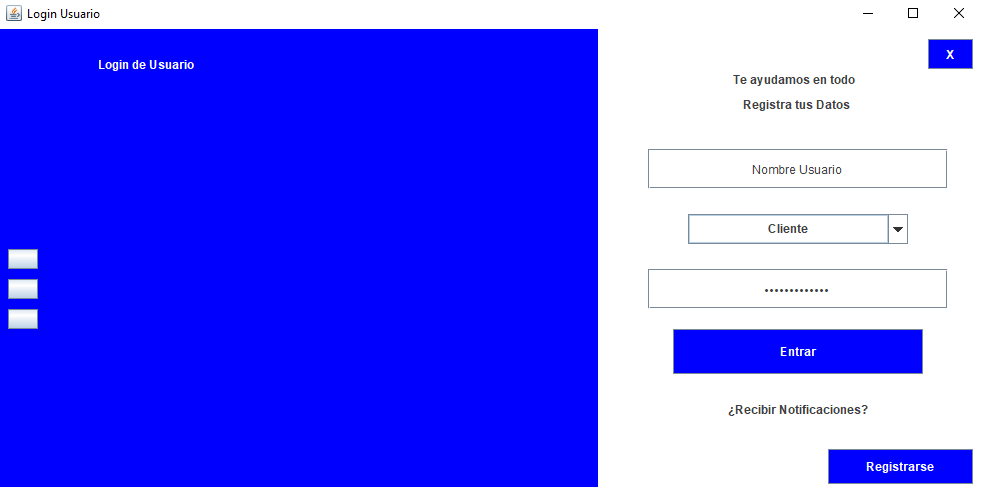
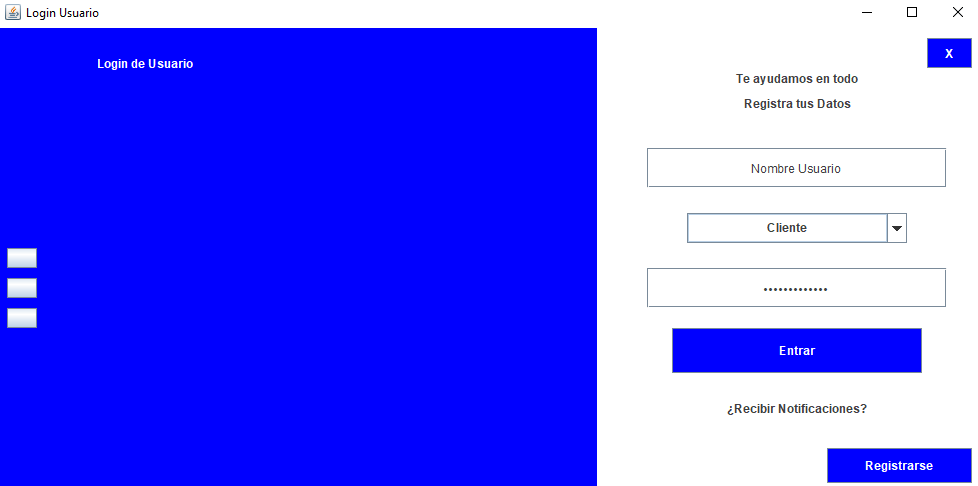
Correcciones ReadMe

diff --git a/Clase2/src/app/login/LoginTemplate.java b/Clase2/src/app/login/LoginTemplate.java
@@ -48,6 +48,7 @@ public class LoginTemplate extends JFrame {
         lEslogan = new JLabel("Te ayudamos en todo");
         lEslogan.setSize(130, 20);
         lEslogan.setLocation((pDerecha.getWidth() - lEslogan.getWidth()) / 2, 40);
+        lEslogan.setHorizontalAlignment(SwingConstants.CENTER);
         lEslogan.setForeground(Color.DARK_GRAY);
         pDerecha.add(lEslogan);
 
@@ -55,12 +56,14 @@ public class LoginTemplate extends JFrame {
         lTituloLogin.setSize(110, 30);
         lTituloLogin.setLocation((pDerecha.getWidth() - lTituloLogin.getWidth()) / 2, 60);
         lTituloLogin.setForeground(Color.DARK_GRAY);
+        lTituloLogin.setHorizontalAlignment(SwingConstants.CENTER);
         pDerecha.add(lTituloLogin);
 
         lNotificaciones = new JLabel("¿Recibir Notificaciones?");
         lNotificaciones.setSize(140, 20);
         lNotificaciones.setLocation((pDerecha.getWidth() - lNotificaciones.getWidth()) / 2, 370);
         lNotificaciones.setForeground(Color.DARK_GRAY);
+        lNotificaciones.setHorizontalAlignment(SwingConstants.CENTER);
         pDerecha.add(lNotificaciones);
 
         tNombreUsuario = new JTextField("Nombre Usuario");

diff --git a/README.md b/README.md
@@ -10,12 +10,12 @@ Curso propuesto por el grupo de trabajo Semana de Ingenio y Diseño (**SID**) de
 
 ## Objetivos
 
-- Identificar las 4 etapas para configurar objetos gráficos básicos y así ser mostrados en pantalla en una vista.
+- Identificar las 4 etapas para crear objetos gráficos básicos y así ser mostrados en pantalla en una vista.
 - Aprender los métodos principales para configurar los objetos gráficos y mostrarlos por pantalla.
 - Explorar el enfoque de posicionamiento por medio de pixeles sin el uso de manager de Layouts.
 - Comprender la diferencia de adición hacia una ventana principal o hacia un panel
 
-# Etapas de Configuración de un Objeto Gráfico
+# Etapas de Creación de un Objeto Gráfico
 
 ## **Declaración**
 
@@ -57,7 +57,7 @@ Hasta el momento el objeto gráfico esta listo para ser mostrado sin embargo no 
   <p>Adición de dos objetos gráficos una vez se hayan configurado </p>
 </div>
 
-Puede verse en la anterior imagen que la forma de añadir elementos gráficos en la ventana consiste en llamar **this.add()** la palabra clave **this** hace referencia a que se esta llamando a la misma clase donde se esta codificando. Sin embargo pueden existir algunos objetos gráficos que queremos añadir no en la ventana principal, sino en un Panel por ejemplo. A continuación se muestra como se podría hacer esto.
+Puede verse en la anterior imagen que la forma de añadir elementos gráficos en la ventana consiste en llamar **this.add()**. La palabra clave **this** hace referencia a que se esta llamando a la misma clase donde se esta codificando. Sin embargo pueden existir algunos objetos gráficos que queremos añadir no en la ventana principal, sino en un Panel por ejemplo. A continuación se muestra como se podría hacer esto.
 
 <div align="center">
   <img  src="./resources/adicion2.png">
@@ -75,8 +75,9 @@ En esta sección aprenderemos la forma de configurar objetos gráficos para ser 
 - **JComboBox**
 - **JButton**
 - **JCheckBox**
-- **JRadioButton** (Se explicara brevemente su configuración ya que es similar a la de checkBox)
 - **ButtonGroup**
+- **JRadioButton** (Se explicara brevemente su creación ya que es similar a la de checkBox)
+- **JTextArea** (Se explicara brevemente su creación ya que es similar a la de un TextField)
 
 ## Antes de comenzar
 
@@ -127,7 +128,7 @@ nuestro código se vera algo asi:
   <p>Clase de login de usuario</p>
 </div>
 
-Cabe resaltar que la configuración de la ventana siempre ira de ultimas se se deja en otros lados probablemente el programa tendrá problemas en mostrar la interfaz. Sobretodo con la ultima linea de código **setVisible**
+Cabe resaltar que la configuración de la ventana siempre ira de ultimas, si se deja en otros lados probablemente el programa tendrá problemas en mostrar la interfaz. Sobretodo con la ultima linea de código **setVisible**
 
 ## JLabel
 
@@ -178,7 +179,7 @@ Corremos nuestra aplicación y esta en la misma posición que antes.
 
 **¿Por que esta pasando esto?**
 
-Esto se debe al manager de posicionamiento de Java que por defecto maneja un Layout predeterminado, el cual tratara de dejar nuestros objetos en la parte central superior de nuestra pantalla, el problema ocurre cuando tenemos dos o mas objetos y este tratara de dividir el panel de forma equitativa para posicionarlos y esto no es lo que queremos muchas veces. Para esto debemos configurar nuestra ventana y nuestros paneles para que deje nula esa propiedad y **seamos nosotros quienes posicionemos nuestros objetos mediante posicionamiento en pixeles.**
+Esto se debe al manager de posicionamiento de Java que por defecto maneja un Layout predeterminado, el cual tratará de dejar nuestros objetos en la parte central superior de nuestra pantalla, el problema ocurre cuando tenemos dos o mas objetos y este tratara de dividir el panel de forma equitativa para posicionarlos y esto no es lo que queremos muchas veces. Para esto debemos configurar nuestra ventana y nuestros paneles para que deje nula esa propiedad y **seamos nosotros quienes posicionemos nuestros objetos mediante posicionamiento en pixeles.**
 
 ```
 pDerecha.setLayout(null);
@@ -270,6 +271,16 @@ Como los anteriores objetos gráficos tiene algunas configuraciones que ya hemos
   .
 - **setHorizontalAlignment:** recibe por parámetro un objeto tipo **SwingConstants** y le da la dirección de la posición del texto. Si no se llama por defecto el texto estará posicionado en la parte izquierda, sus otras opciones principales son **CENTER** y **RIGHT**. Aunque existen mas opciones estas configuran la posición con respecto a Y, no nos interesa tanto esas opciones.
 
+**Paréntesis**
+
+Para asegurarnos de que nuestros JLabel también queden centrados vamos a añadir esa propiedad en la configuración de estos
+
+```
+lEslogan.setHorizontalAlignment(SwingConstants.CENTER);
+lTituloLogin.setHorizontalAlignment(SwingConstants.CENTER);
+lNotificaciones.setHorizontalAlignment(SwingConstants.CENTER);
+```
+
 ### Adición
 
 ```
@@ -348,7 +359,7 @@ cbTipoUsuario.setBackground(Color.WHITE);
 A parte de las configuraciones que ya se vieron antes en este caso existen dos particularidades:
 
 - **addItem:** recibe por parámetro un String y lo admite como opción a seleccionar por el usuario.
-- **getRenderer, setHorizontalAlignment:** Si se quieren centrar los elementos dentro de un ComboBox, esto no se podrá de forma directa. Cada una de las opciones dentro del ComboBox son tratados como Labels y para obtener su valor es necesario pedirle al ComboBox los elementos con el método **getRenderer**. Una vez obtenemos los elementos (JLabels) es necesario hacer un **Cast** de objeto para asi obtener las configuraciones propias de un JLabel **((JLabel) cbTipoUsuario.getRenderer())** de lo contrario al poner . y esperar las opciones no se vera la opción **setHorizontalAlignment**.
+- **getRenderer, setHorizontalAlignment:** Si se quieren centrar los elementos dentro de un ComboBox, esto no se podrá de forma directa. Cada una de las opciones dentro del ComboBox son tratados como Labels y para obtener su valor es necesario pedirle al ComboBox los elementos con el método **getRenderer**. Una vez obtenemos los elementos (JLabels) es necesario hacer un **Cast** de objeto para asi obtener las configuraciones propias de un JLabel **((JLabel) cbTipoUsuario.getRenderer())** de lo contrario al poner . (punto) y esperar las opciones no se vera la opción **setHorizontalAlignment**.
 
 ### Adición
 
@@ -358,7 +369,7 @@ pDerecha.add(cbTipoUsuario);
 
 ## JButton
 
-Los botones son la forma mas común con la que un usuario podrá interactuar con las interfaces gráficas. Estos botones generan acciones que el usuario puede generar al dar Click sobre estos, entre algunas opciones, puede estar el envió de información, traer información, abrir otras secciones etc.
+Los botones son la forma mas común con la que un usuario podrá interactuar con las interfaces gráficas. Estos botones generan acciones que el usuario puede activar al dar Click sobre estos, entre algunas opciones, puede estar el envió de información, traer información, abrir otras secciones etc.
 
 ### Declaración
 
@@ -386,8 +397,9 @@ bEntrar.setForeground(Color.WHITE);
 bEntrar.setFocusable(false);
 ```
 
-A parte de las configuraciones que ya se vieron antes en este caso existe una particularidad:
+A parte de las configuraciones que ya se vieron antes en este caso existen dos particularidades:
 
+- **setHorizontalAlignment:** Por defecto los botones van a poner el texto centrado pero en caso de que se quiera colocar el texto a la izquierda o a la derecha se puede utilizar este método.
 - **setFocusable:** Recibe por parámetro un booleano que por defecto esta en True, si le cambiamos la configuración a False va a quitar el cuadro por defecto que rodea al texto del botón una vez se oprima click.
 
 <div align="center">
@@ -532,29 +544,60 @@ En este caso nuestra interfaz no tendrá RadioButtons pero a continuación se mu
 ### Declaración
 
 ```
-private JRadioButton rBotonOpcion1, rBotonOpcion2;
+private JRadioButton rbOpcion1, rbOpcion2;
 ```
+
+La variable (objeto) que creemos para los JRadioButton empezaran con rb en minúscula seguido del nombre de la variable.
 
 ### Ejemplificación
 
 ```
-rBotonOpcion1= new JRadioButton("opcion1");
-rBotonOpcion2= new JRadioButton("opcion2");
+rbOpcion1= new JRadioButton("opcion1");
+rbOpcion2= new JRadioButton("opcion2");
 ```
 
 ### Configuración
 
 ```
-rBotonOpcion1.setBounds(50, 400, 120, 30);
-rBotonOpcion2.setBounds(200, 400, 120, 30);
-
+rbOpcion1.setBounds(50, 400, 120, 30);
+rbOpcion2.setBounds(200, 400, 120, 30);
 ```
 
 ### Adición
 
 ```
-panel.add(rBotonOpcion1);
-panel.add(rBotonOpcion2);
+panel.add(rbOpcion1);
+panel.add(rbOpcion2);
+```
+
+## JTextArea
+
+Un objeto gráfico textArea expande un poco el concepto de los textField ya que soporta una mayor cantidad de texto y esta diseñado justamente para recibir grandes cantidades de texto. A continuación se muestra una breve explicación de su creación:
+
+### Declaración
+
+```
+private JTextArea taSugerencias;
+```
+
+La variable (objeto) que creemos para los JTextArea empezaran con ta en minúscula seguido del nombre de la variable.
+
+### Ejemplificación
+
+```
+taSugerencias= new JTextArea("Escribe algo...");
+```
+
+### Configuración
+
+```
+taSugerencias.setBounds(10, 10, 230, 140);
+```
+
+### Adición
+
+```
+panel.add(taSugerencias);
 ```
 
 # Resultado
